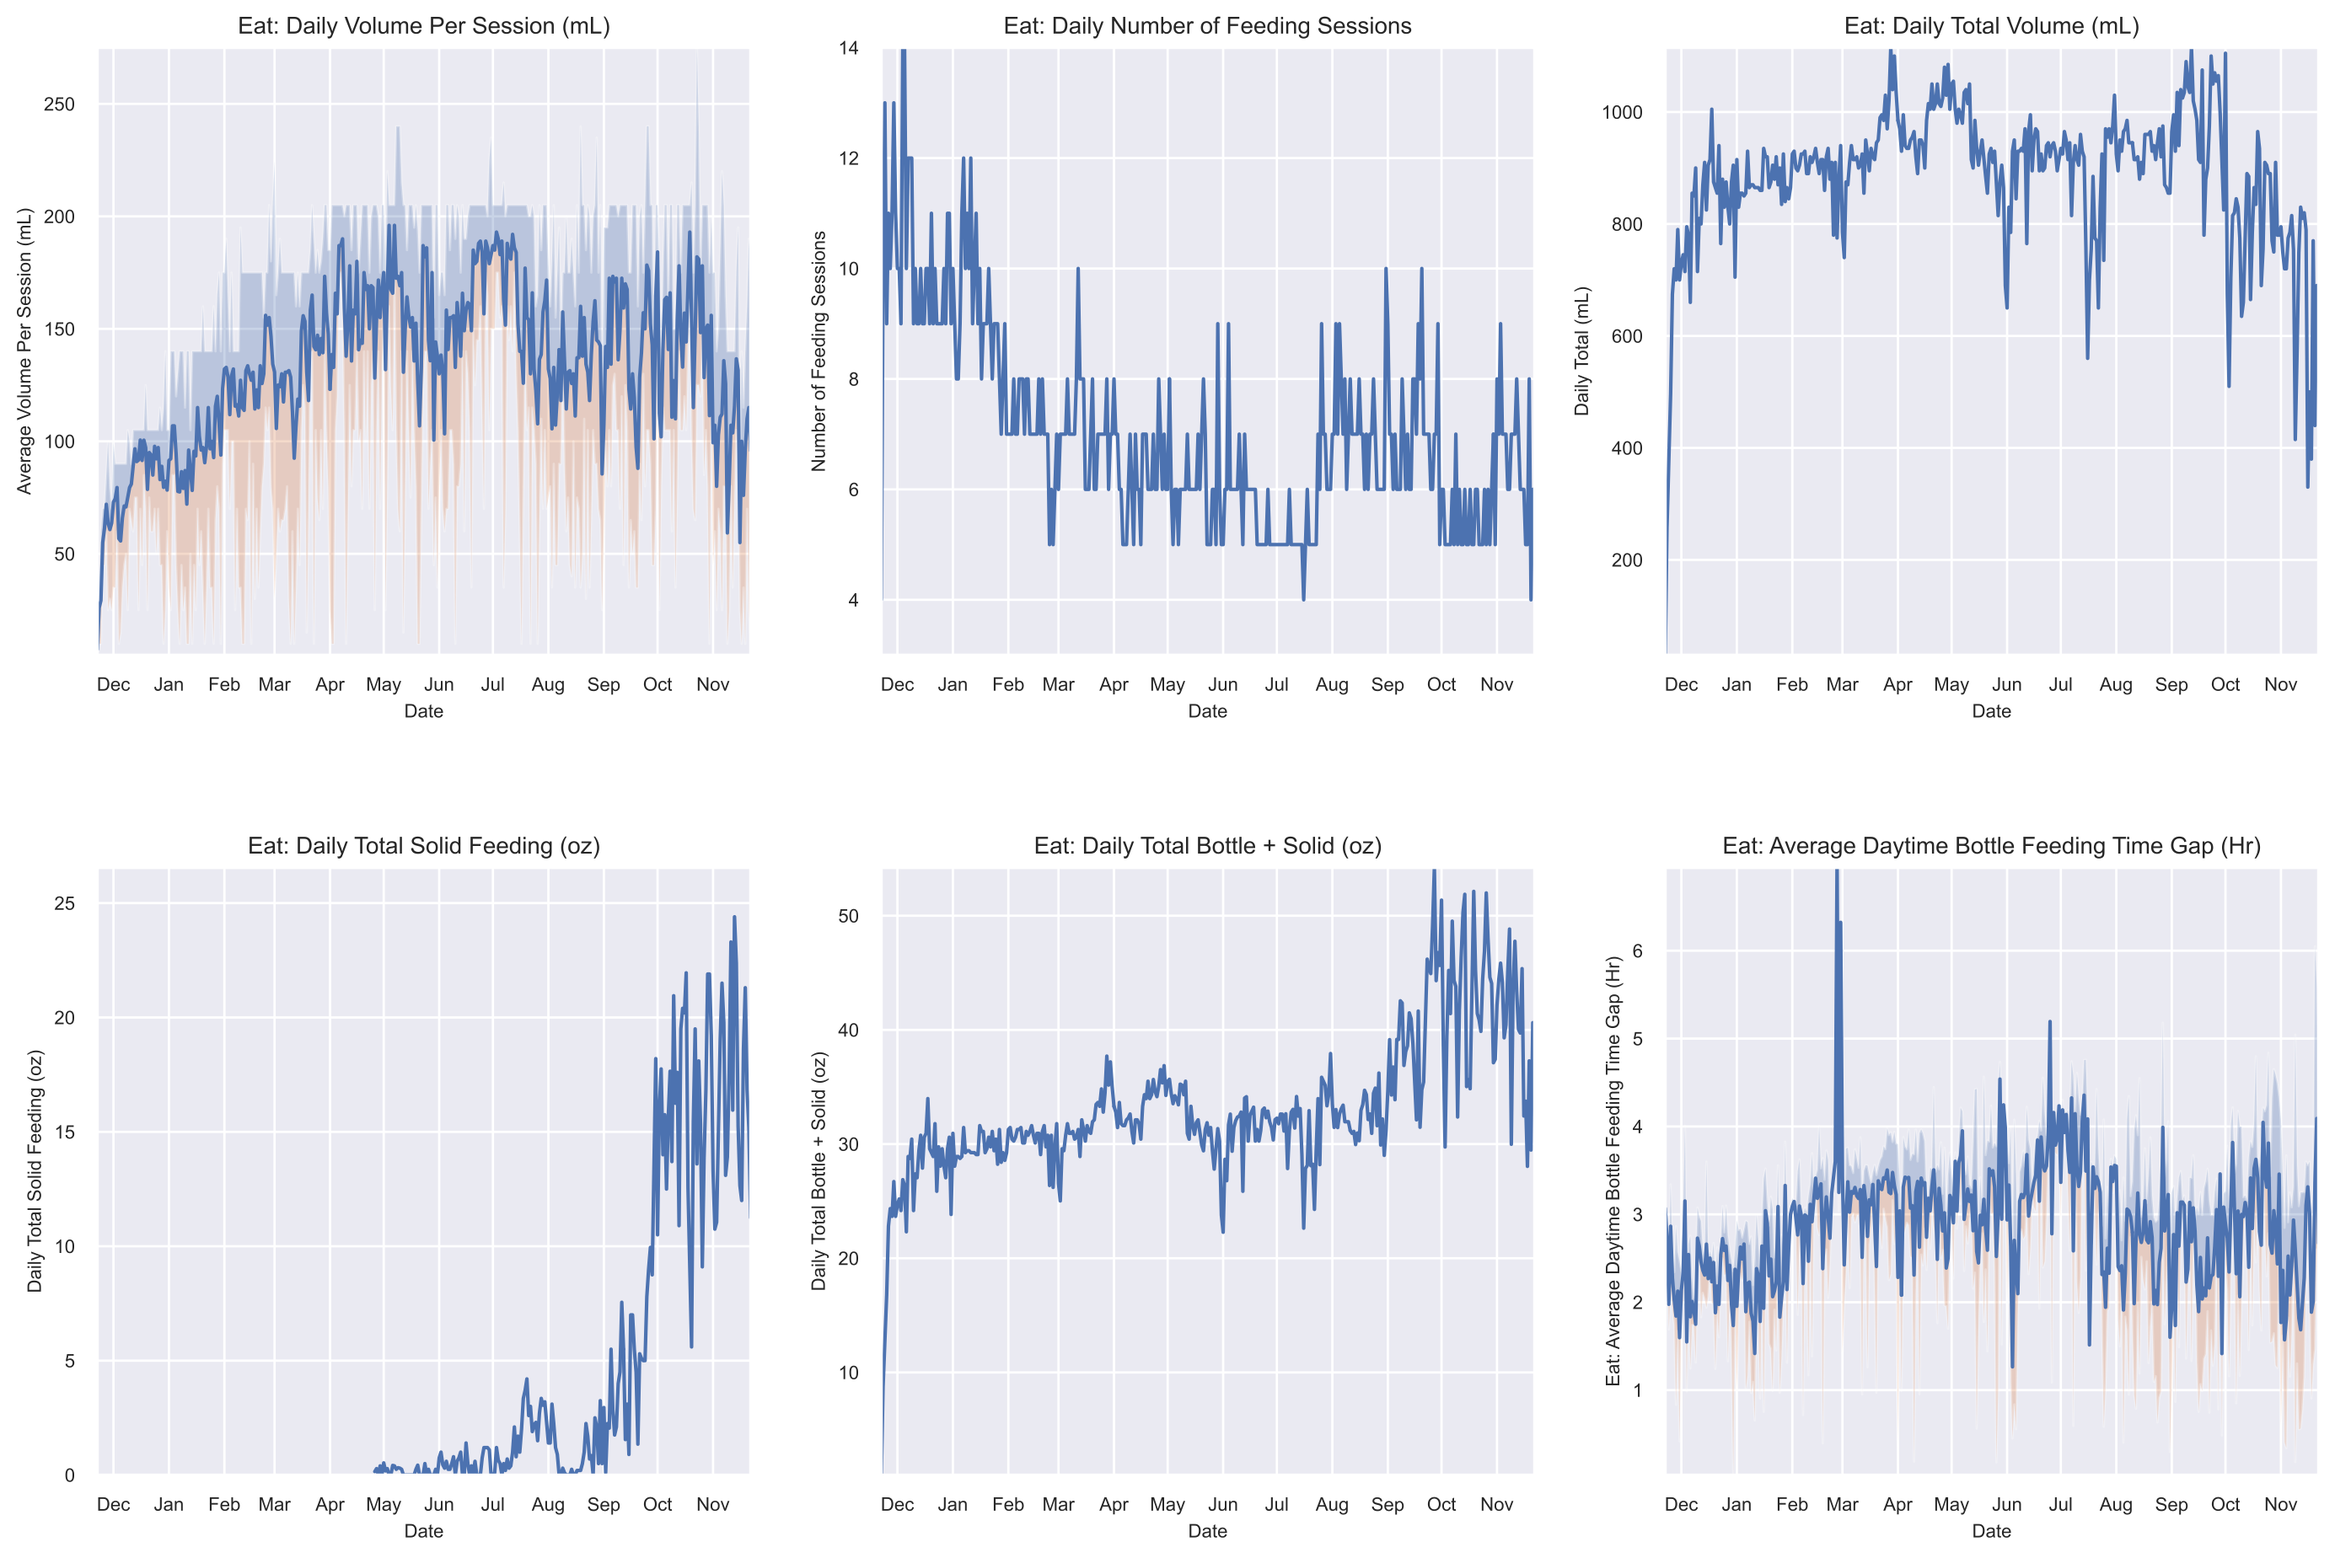
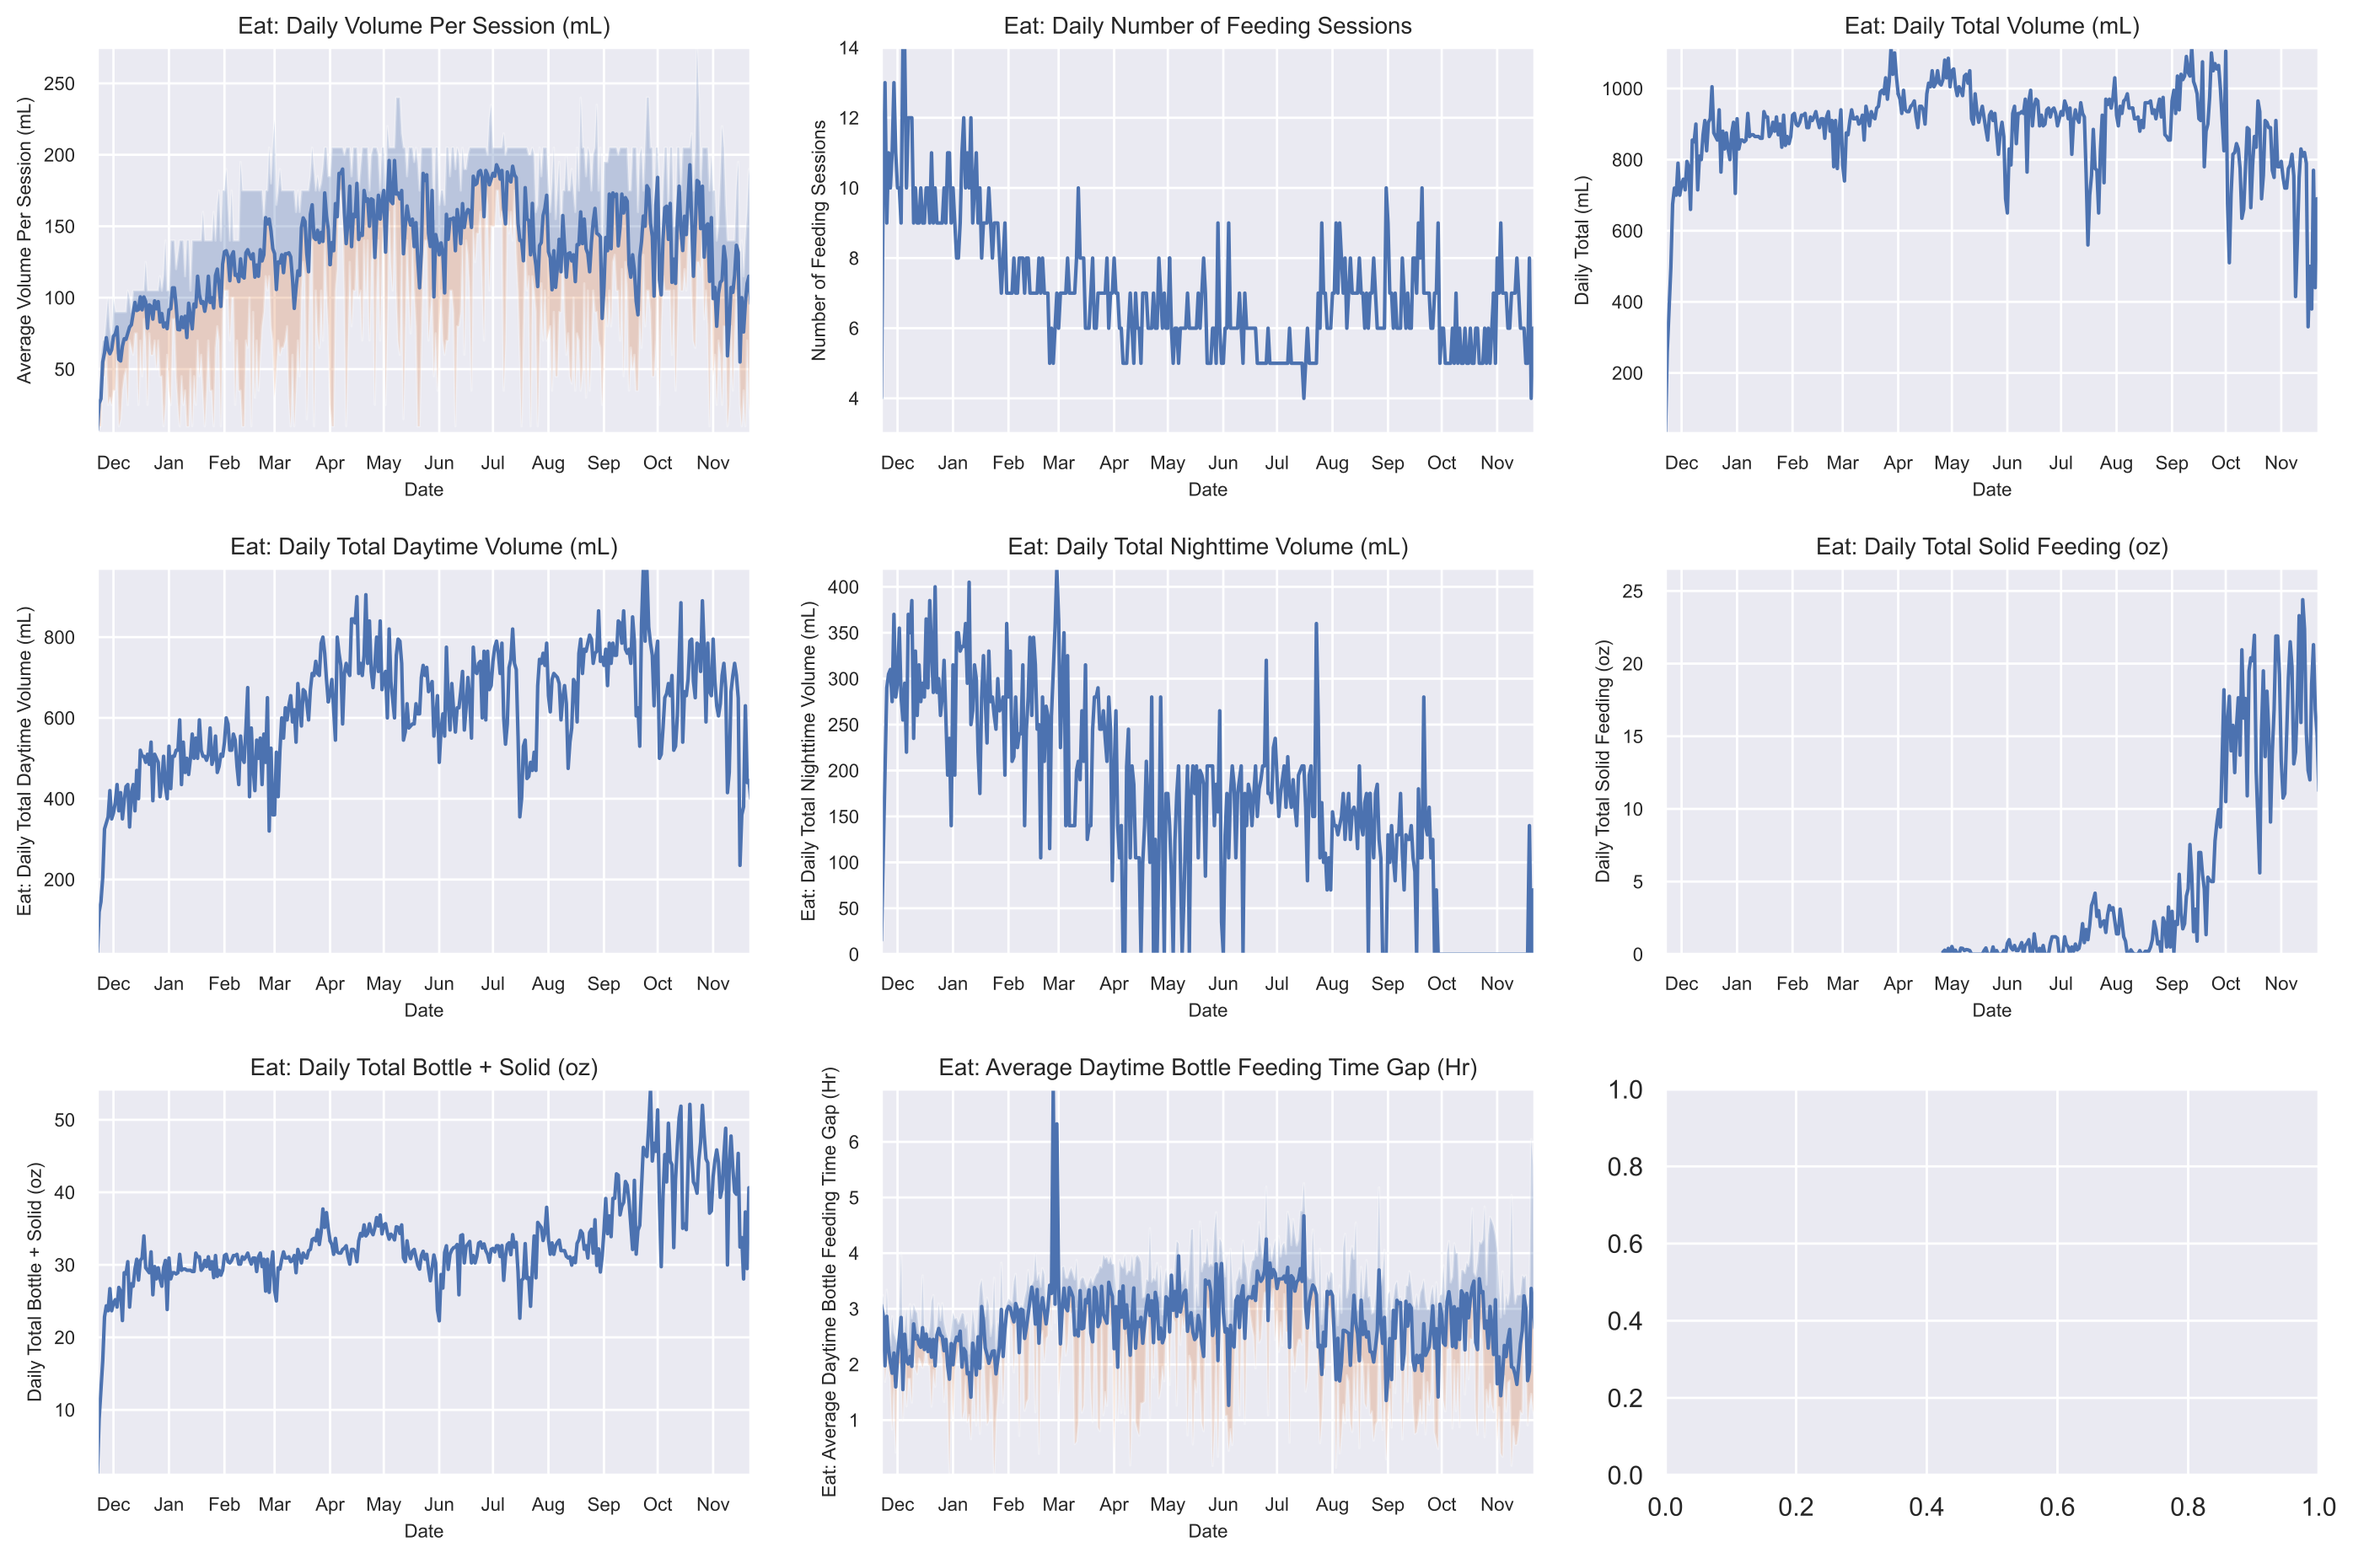
Added new charts and updated doc rendering

diff --git a/agenoria/plot_feeding_stats_charts.py b/agenoria/plot_feeding_stats_charts.py
@@ -13,7 +13,7 @@ import numpy as np
 import pandas as pd
 import seaborn as sns
 from pandas.plotting import register_matplotlib_converters
-from .parse_config import parse_json_config, get_daytime_index
+from .parse_config import parse_json_config, get_daytime_index, get_nighttime_index
 from .plot_settings import mmm_plot, format_monthly_plot, export_figure
 
 # Debug option
@@ -25,6 +25,14 @@ ALPHA_VALUE = 0.3
 
 # Parameters from JSON
 config = []
+
+
+def export_feeding_text(feeding_data, key_amount, label):
+    print(label + ': ', end='')
+    for index, row in feeding_data.iterrows():
+        print(row['Time of feeding'].strftime('%I:%M%p').lower(), end='')
+        print(': ' + str(int(row[key_amount])) + ' mL; ', end='')
+    print('\n', end='')
 
 
 def parse_glow_feeding_data(file_name, key_amount):
@@ -60,27 +68,44 @@ def parse_glow_feeding_data(file_name, key_amount):
         min_on_date = rows_on_date[key_amount].min()
         sessions_on_date = rows_on_date[key_amount].count()
 
-        # Time between feedings
+        # Daytime feedings
         daytime_index = get_daytime_index(rows_on_date['Time of feeding'])
         daytime_feeding = rows_on_date[daytime_index]
-        time_between_feeding = daytime_feeding['Time of feeding'].diff()
+        daytime_sum = daytime_feeding[key_amount].sum()
 
+        # Daytime time between feedings
+        time_between_feeding = daytime_feeding['Time of feeding'].diff()
         min2hour = np.timedelta64(1, 'h')
         time_between_feeding_max = time_between_feeding.max() / min2hour
         time_between_feeding_mean = time_between_feeding.mean() / min2hour
         time_between_feeding_min = time_between_feeding.min() / min2hour
+
+        # Nighttime feeding
+        nighttime_index = get_nighttime_index(rows_on_date['Time of feeding'])
+        nighttime_feeding = rows_on_date[nighttime_index]
+        nighttime_sum = nighttime_feeding[key_amount].sum()
+
+        # Print
+        if (DEBUG):
+            print(current_date.date())
+            export_feeding_text(daytime_feeding, key_amount, 'Daytime')
+            export_feeding_text(nighttime_feeding, key_amount, 'Nighttime')
+            print('Total volume:', int(sum_on_date), 'mL')
+            print('\n', end='')
 
         # Put stats in a list
         feeding_data_list.append([current_date, sum_on_date,
                                   mean_on_date, min_on_date, max_on_date,
                                   sessions_on_date, time_between_feeding_max,
                                   time_between_feeding_mean,
-                                  time_between_feeding_min])
+                                  time_between_feeding_min,
+                                  daytime_sum, nighttime_sum])
 
     # Convert list to dataframe
     daily_data_new = pd.DataFrame(feeding_data_list, columns=[
         'date', 'sum', 'mean', 'min', 'max', 'sessions',
-        'time gap max', 'time gap mean', 'time gap min'])
+        'time gap max', 'time gap mean', 'time gap min',
+        'daytime sum', 'nighttime sum'])
 
     return daily_data_new
 
@@ -109,7 +134,7 @@ def plot_feeding_stats_charts(config_file):
 
     # Style
     sns.set(style="darkgrid")
-    f, axarr = plt.subplots(2, 3)
+    f, axarr = plt.subplots(3, 3)
 
     # Import data
     global config
@@ -149,25 +174,37 @@ def plot_feeding_stats_charts(config_file):
     axarr[0, 2].set_ylabel('Daily Total (mL)')
     format_monthly_plot(axarr[0, 2], xlim_left, xlim_right)
 
-    # Chart 4 - Eat: Daily Total Solid Feeding (oz)
-    axarr[1, 0].plot(data_solid['date'], data_solid['sum'])
-    axarr[1, 0].set_title('Eat: Daily Total Solid Feeding (oz)')
-    axarr[1, 0].set_ylabel('Daily Total Solid Feeding (oz)')
+    # Chart 4 - Eat: Daytime Volume
+    axarr[1, 0].plot(data_bottle['date'], data_bottle['daytime sum'],)
+    axarr[1, 0].set_title('Eat: Daily Total Daytime Volume (mL)')
+    axarr[1, 0].set_ylabel('Eat: Daily Total Daytime Volume (mL)')
     format_monthly_plot(axarr[1, 0], xlim_left, xlim_right)
 
-    # Chart 5 - Eat: Daily Total Bottle + Solid
-    axarr[1, 1].plot(data_bottle['date'], data_feeding_combined)
-    axarr[1, 1].set_title('Eat: Daily Total Bottle + Solid (oz)')
-    axarr[1, 1].set_ylabel('Daily Total Bottle + Solid (oz)')
+    # Chart 5 - Eat: Nighttime Volume
+    axarr[1, 1].plot(data_bottle['date'], data_bottle['nighttime sum'],)
+    axarr[1, 1].set_title('Eat: Daily Total Nighttime Volume (mL)')
+    axarr[1, 1].set_ylabel('Eat: Daily Total Nighttime Volume (mL)')
     format_monthly_plot(axarr[1, 1], xlim_left, xlim_right)
 
-    # Chart 6 - Eat: Average Time Between Feedings
-    mmm_plot(axarr[1, 2], data_bottle['date'], data_bottle['time gap mean'],
+    # Chart 6 - Eat: Daily Total Solid Feeding (oz)
+    axarr[1, 2].plot(data_solid['date'], data_solid['sum'])
+    axarr[1, 2].set_title('Eat: Daily Total Solid Feeding (oz)')
+    axarr[1, 2].set_ylabel('Daily Total Solid Feeding (oz)')
+    format_monthly_plot(axarr[1, 2], xlim_left, xlim_right)
+
+    # Chart 7 - Eat: Daily Total Bottle + Solid
+    axarr[2, 0].plot(data_bottle['date'], data_feeding_combined)
+    axarr[2, 0].set_title('Eat: Daily Total Bottle + Solid (oz)')
+    axarr[2, 0].set_ylabel('Daily Total Bottle + Solid (oz)')
+    format_monthly_plot(axarr[2, 0], xlim_left, xlim_right)
+
+    # Chart 8 - Eat: Average Time Between Feedings
+    mmm_plot(axarr[2, 1], data_bottle['date'], data_bottle['time gap mean'],
              data_bottle['time gap min'],
              data_bottle['time gap max'], ALPHA_VALUE)
-    axarr[1, 2].set_title('Eat: Average Daytime Bottle Feeding Time Gap (Hr)')
-    axarr[1, 2].set_ylabel('Eat: Average Daytime Bottle Feeding Time Gap (Hr)')
-    format_monthly_plot(axarr[1, 2], xlim_left, xlim_right)
+    axarr[2, 1].set_title('Eat: Average Daytime Bottle Feeding Time Gap (Hr)')
+    axarr[2, 1].set_ylabel('Eat: Average Daytime Bottle Feeding Time Gap (Hr)')
+    format_monthly_plot(axarr[2, 1], xlim_left, xlim_right)
 
     # Export
     f.subplots_adjust(wspace=0.2, hspace=0.35)

diff --git a/agenoria/plot_sleep_stats_charts.py b/agenoria/plot_sleep_stats_charts.py
@@ -48,10 +48,6 @@ def parse_glow_sleep_data(file_name):
     # For some reason raw sleep data is not sorted by time
     data_sleep = data_sleep.sort_values(['Begin time'], ascending=False)
 
-    # Label each daytime nap session
-    nap_index = get_daytime_index(data_sleep['Begin time'])
-    data_sleep.loc[nap_index, 'daytime_nap'] = 1
-
     # Get duration for each row, then convert to hours
     data_sleep['duration'] = data_sleep['End time'] - data_sleep['Begin time']
     data_sleep['duration'] = data_sleep['duration'] / np.timedelta64(1, 'h')
@@ -68,11 +64,12 @@ def parse_glow_sleep_data(file_name):
         # Get all entires on this date
         rows_on_date = data_sleep[data_sleep['Date'].isin([current_date])]
 
-        # Compute number of nap sessions
-        nap_sessions_on_date = rows_on_date['daytime_nap'].count()
+        # Remove all sleep sessions less than two minutes
+        SLEEP_THRESHOLD = 0.0333333  # two minutes -> hours
+        filtered = rows_on_date[rows_on_date['duration'] > SLEEP_THRESHOLD]
 
         # Get total sleep duration
-        total_sleep_duration = rows_on_date['duration'].sum()
+        total_sleep_duration = filtered['duration'].sum()
 
         # Add offset from previous day
         total_sleep_duration += offset
@@ -84,23 +81,38 @@ def parse_glow_sleep_data(file_name):
         # Longest session
         longest_session = rows_on_date['duration'].max()
 
-        # Remove all sleep sessions less than two minutes
-        SLEEP_THRESHOLD = 0.0333333  # two minutes -> hours
-        filtered = rows_on_date[rows_on_date['duration'] > SLEEP_THRESHOLD]
-
         # Compute longest awake time - begin (current time) -  end (next row)
         end_time_shifted = filtered['End time'].shift(-1)
         awake_duration = filtered['Begin time'] - end_time_shifted
         max_awake_duration = awake_duration.max() / np.timedelta64(1, 'h')
 
+        # Remove session that extends into other days
+        filtered2 = filtered[filtered['End time'].dt.normalize()
+                             == current_date]
+
+        # Nap sessions must begin and end within the defined window
+        nap_index1 = get_daytime_index(filtered2['Begin time'])
+        nap_index2 = get_daytime_index(filtered2['End time'])
+        nap_rows = filtered2[nap_index1 & nap_index2]
+
+        # Compute stats on nap sessions
+        nap_sessions_on_date = len(nap_rows.index)
+        nap_duration_on_date = nap_rows['duration'].sum()
+
+        # Total nighttime duration
+        nighttime_duration = total_sleep_duration - nap_duration_on_date
+
         # Put stats in a list
         sleep_data_list.append(
             [current_date, nap_sessions_on_date, total_sleep_duration,
+             nap_duration_on_date, nighttime_duration,
              longest_session, max_awake_duration])
 
     # Convert list to dataframe
     data_sleep_daily = pd.DataFrame(
         sleep_data_list, columns=['date', 'total_naps', 'total_sleep_duration',
+                                  'total_nap_duration',
+                                  'total_nighttime_duration',
                                   'longest_session', 'max_awake_duration'])
 
     return data_sleep_daily
@@ -112,7 +124,7 @@ def plot_sleep_stats_charts(config_file):
 
     # Style
     sns.set(style="darkgrid")
-    f, axarr = plt.subplots(2, 2)
+    f, axarr = plt.subplots(2, 3)
 
     # Import data
     global config
@@ -143,18 +155,32 @@ def plot_sleep_stats_charts(config_file):
     format_monthly_plot(axarr[0, 1], xlim_left, xlim_right)
 
     # Chart 3 - Sleep: Daily Total Sleep (Hours)
-    axarr[1, 0].plot(data_sleep_daily['date'],
+    axarr[0, 2].plot(data_sleep_daily['date'],
                      data_sleep_daily['total_sleep_duration'])
-    axarr[1, 0].set_title('Sleep: Daily Total Sleep (Hr)')
+    axarr[0, 2].set_title('Sleep: Daily Total Sleep (Hr)')
+    axarr[0, 2].set_ylabel('Total Sleep (Hr)')
+    format_monthly_plot(axarr[0, 2], xlim_left, xlim_right)
+
+    # Chart 4 - Sleep: Daily Daytime Sleep (Hours)
+    axarr[1, 0].plot(data_sleep_daily['date'],
+                     data_sleep_daily['total_nap_duration'])
+    axarr[1, 0].set_title('Sleep: Daily Total Daytime Sleep (Hr)')
     axarr[1, 0].set_ylabel('Total Sleep (Hr)')
     format_monthly_plot(axarr[1, 0], xlim_left, xlim_right)
 
-    # Chart 4 - Daily Maximum Awake Duration (Hr)
+    # Chart 5 - Sleep: Daily Nighttime Sleep (Hours)
     axarr[1, 1].plot(data_sleep_daily['date'],
-                     data_sleep_daily['max_awake_duration'])
-    axarr[1, 1].set_title('Daily Maximum Awake Duration (Hr)')
-    axarr[1, 1].set_ylabel('Maximum Awake Duration (Hr)')
+                     data_sleep_daily['total_nighttime_duration'])
+    axarr[1, 1].set_title('Sleep: Daily Total Nighttime Sleep (Hr)')
+    axarr[1, 1].set_ylabel('Total Sleep (Hr)')
     format_monthly_plot(axarr[1, 1], xlim_left, xlim_right)
+
+    # Chart 6 - Daily Maximum Awake Duration (Hr)
+    axarr[1, 2].plot(data_sleep_daily['date'],
+                     data_sleep_daily['max_awake_duration'])
+    axarr[1, 2].set_title('Daily Maximum Awake Duration (Hr)')
+    axarr[1, 2].set_ylabel('Maximum Awake Duration (Hr)')
+    format_monthly_plot(axarr[1, 2], xlim_left, xlim_right)
 
     # Export
     f.subplots_adjust(wspace=0.2, hspace=0.35)

diff --git a/agenoria/parse_config.py b/agenoria/parse_config.py
@@ -19,4 +19,8 @@ def parse_json_config(file_name):
 
 
 def get_daytime_index(data):
-    return (data.dt.hour > 7) & (data.dt.hour < 19)
+    return (data.dt.hour > 7) & (data.dt.hour < 20)
+
+
+def get_nighttime_index(data):
+    return (data.dt.hour < 7) | (data.dt.hour > 20)
